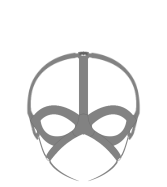
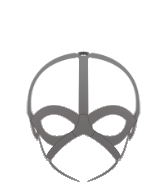
Cat Mask Harness by Kyra
This change adds an item with a combined head harness and cat-eye mask.
It has optional ears designed to 'clip' through hair.

Also included is a small change to the custom latex hood to disable 'whole item' colouring - this was also changing the colour of the dummy hair layer.

diff --git a/BondageClub/Assets/Female3DCG/Female3DCG.js b/BondageClub/Assets/Female3DCG/Female3DCG.js
@@ -7283,7 +7283,7 @@ var AssetFemale3DCG = [
 				],
 			},
 			{
-				Name: "CustomLatexHood", Fetish: ["Latex"], Value: 100, Difficulty: 5, Priority: 20, DefaultColor: ["#1C1C1C", , "#B7B7B7", "#B7B7B7", "#B7B7B7", "#1C1C1C", "#B7B7B7", "#1C1C1C", "#B7B7B7"], Time: 10, AllowLock: true, DrawLocks: false, Extended: true, DynamicAfterDraw: true,
+				Name: "CustomLatexHood", Fetish: ["Latex"], Value: 100, Difficulty: 5, Priority: 20, DefaultColor: ["#1C1C1C", , "#B7B7B7", "#B7B7B7", "#B7B7B7", "#1C1C1C", "#B7B7B7", "#1C1C1C", "#B7B7B7"], Time: 10, AllowLock: true, DrawLocks: false, Extended: true, DynamicAfterDraw: true, AllowColorizeAll: false,
 				Attribute: ["ShortHair"],
 				Top: 31, Left: 166.5,
 				HideItem: ["HatFacePaint", "MaskFacePaint", "ClothAccessoryFacePaint"],
@@ -7359,6 +7359,21 @@ var AssetFemale3DCG = [
 					{ Name: "FillHoleShapedMouthTransparent", HasType: false, AllowModuleTypes: ["m3f4","m7f4"], CopyLayerColor: "FillRoundMouth" },
 					{ Name: "FillShapedMouthHighlight", HasType: false, AllowModuleTypes: ["m3f1","m7f1","m3f2","m7f2","m3f3","m7f3","m3f4","m7f4"], Color: ["#888888"], AllowColorize: false },
 				],
+			},
+			{
+				Name: "HarnessCatMask", Fetish: ["Pet"], Random: false, Value: 50, Difficulty: 3, Top: 32, Left: 166.5, DefaultColor: ["#202020","#202020","#ADADAD"],
+				DrawLocks: true,
+				AllowLock: true,
+				Hide: [],
+				Block: [],
+				Layer: [
+					{ Name: "Base", HasType: false, },
+					{ Name: "EarsUnder", HasType: false, AllowTypes: ["Ear"], },
+					{ Name: "EarsOver", HasType: false, AllowTypes: ["Ear"], Priority: 53, CopyLayerColor: "EarsUnder" },
+					{ Name: "Metal", HasType: false, },
+					{ Name: "Lock", LockLayer: true, HasType: false, AllowColorize: false }
+				]
+
 			},
 		],
 		Color: ["Default", "#202020", "#808080", "#bbbbbb", "#aa8080", "#80aa80", "#8080aa", "#aaaa80", "#80aaaa", "#aa80aa", "#cc3333", "#33cc33", "#3333cc", "#cccc33", "#33cccc", "#cc33cc"]

diff --git a/BondageClub/Assets/Female3DCG/Female3DCGExtended.js b/BondageClub/Assets/Female3DCG/Female3DCGExtended.js
@@ -3509,6 +3509,16 @@ var AssetFemale3DCGExtended = {
 				DrawImages: false,
 			}
 		}, // CustomLatexHood
+		HarnessCatMask: {
+			Archetype: ExtendedArchetype.TYPED,
+			Config: {
+				Options: [
+					{ Name: "NoEars", Property: { Type: null } },
+					{ Name: "Ears", Property: { Type: "Ear" } },
+				],
+				ChangeWhenLocked: false,
+			}
+		}, // HarnessCatMask
 	}, // ItemHood
 	ItemDevices: {
 		FuturisticCrate: {
